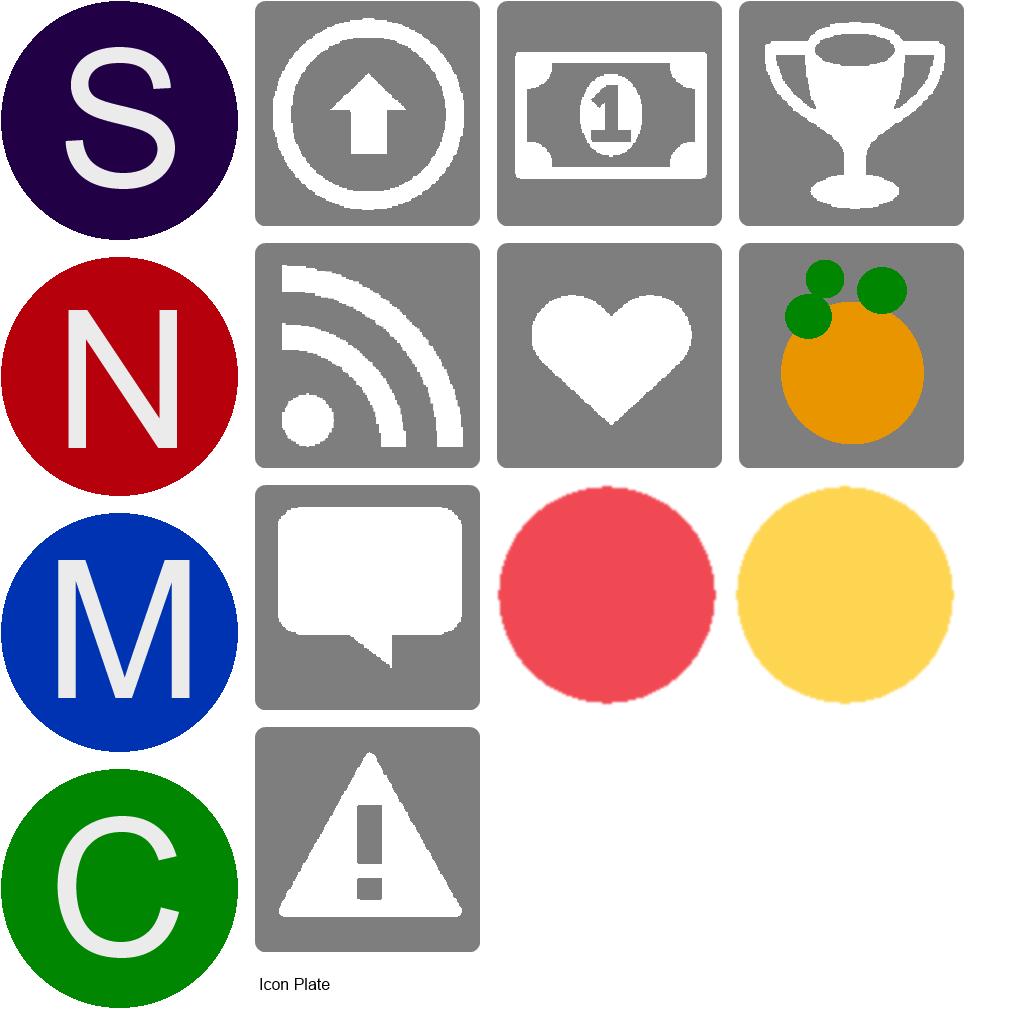
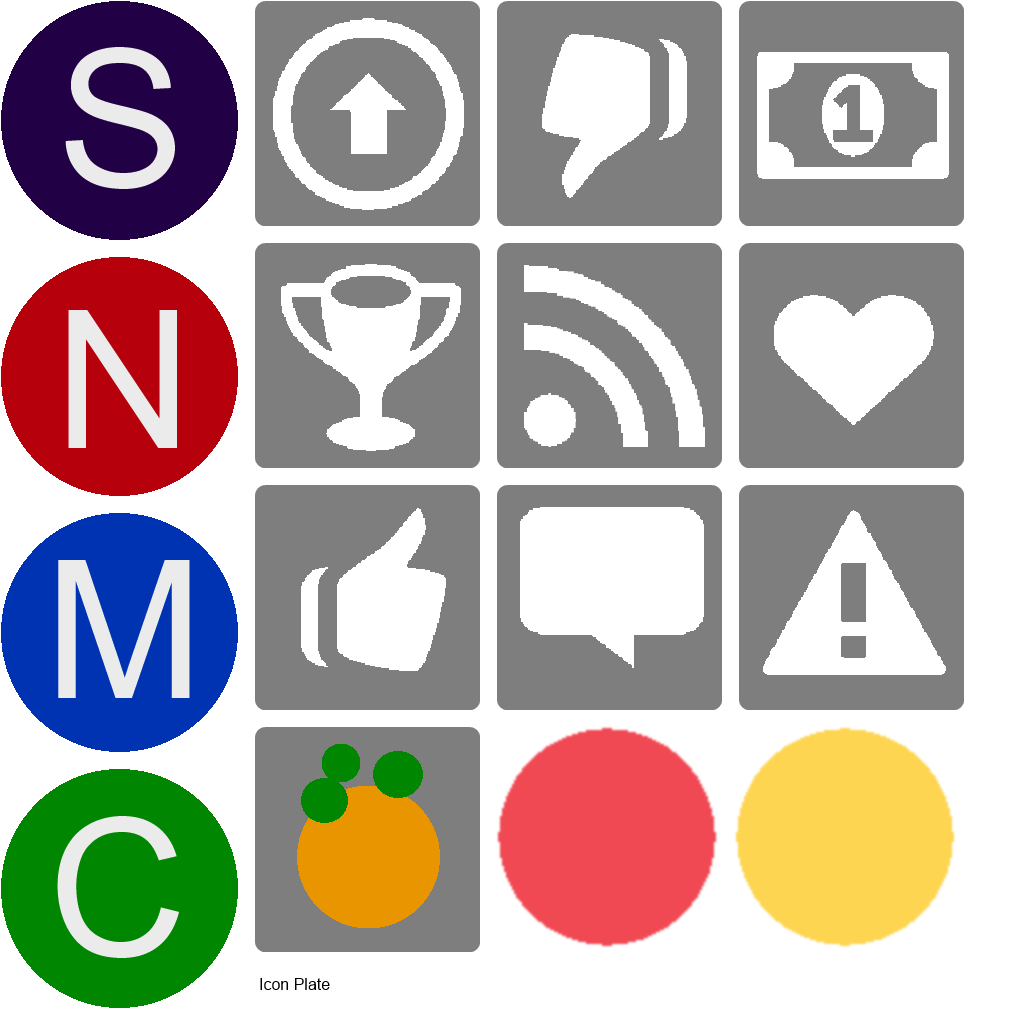
environment modifiers wip

diff --git a/resin/icon/icon.html b/resin/icon/icon.html
@@ -23,5 +23,9 @@
 <span style="font-size: 108pt" class="entypo-up-circled"></span>
  <!-- health -->
 <span style="font-size: 108pt" class="entypo-heart"></span>
+  <!-- happy -->
+  <span style="font-size: 108pt" class="entypo-thumbs-up"></span>
+  <!-- sad -->
+  <span style="font-size: 108pt" class="entypo-thumbs-down"></span>
 </body>
 </html>

diff --git a/game/aicomponent.cpp b/game/aicomponent.cpp
@@ -116,6 +116,7 @@ void AIComponent::Serialize( XStream* xs )
 	XARC_SER( xs, visitorIndex );
 	XARC_SER( xs, rampageTarget );
 	XARC_SER( xs, destinationBlocked );
+	XARC_SER( xs, lastGrid );
 	feTicker.Serialize( xs, "feTicker" );
 	needsTicker.Serialize( xs, "needsTicker" );
 	needs.Serialize( xs );
@@ -2273,6 +2274,33 @@ void AIComponent::DoMoraleZero( const ComponentSet& thisComp )
 }
 
 
+
+void AIComponent::EnterNewGrid( const ComponentSet& thisComp )
+{
+	if ( aiMode == NORMAL_MODE ) {
+		if ( thisComp.item->flags & GameItem::HAS_NEEDS ) {
+			Vector2F center = ToWorld2F( thisComp.spatial->GetPosition2DI() );	// center of the grid.
+			CChitArray arr;
+			const ChitContext* context = this->GetChitContext();
+			LumosChitBag* chitBag = this->GetLumosChitBag();
+
+			// For now, just tombstones.
+			IString names[1] = {
+				IStringConst::tombstone
+			};
+			ItemNameFilter filter( names, 3 );
+			chitBag->QuerySpatialHash( &arr, center, 1.1f, parentChit, &filter );
+			for( int i=0; i<arr.Size(); ++i ) {
+				Chit* chit = arr[i];
+				GameItem* item = chit->GetItem();
+				GLASSERT( item );
+
+			}
+		}
+	}
+}
+
+
 int AIComponent::DoTick( U32 deltaTime )
 {
 	PROFILE_FUNC();
@@ -2434,6 +2462,12 @@ int AIComponent::DoTick( U32 deltaTime )
 			currentAction = 0;
 			break;
 	}
+
+	if ( lastGrid != thisComp.spatial->GetPosition2DI() ) {
+		lastGrid = thisComp.spatial->GetPosition2DI();
+		EnterNewGrid( thisComp );
+	}
+
 	if ( debugFlag && (currentAction != oldAction) ) {
 		GLOUTPUT(( "ID=%d mode=%s action=%s\n", thisComp.chit->ID(), MODE_NAMES[aiMode], ACTION_NAMES[currentAction] ));
 	}

diff --git a/game/aicomponent.h b/game/aicomponent.h
@@ -206,6 +206,7 @@ private:
 	ai::TaskList		taskList;
 	CTicker				needsTicker;
 	ai::Needs			needs;
+	grinliz::Vector2I	lastGrid;	// the environment affects morale and needs - but only check on new grids.
 
 	static const char*	MODE_NAMES[NUM_MODES];
 	static const char*	ACTION_NAMES[NUM_ACTIONS];
@@ -215,6 +216,7 @@ private:
 	void DoMove( const ComponentSet& thisComp );
 	bool DoStand( const ComponentSet& thisComp, U32 since );	// return true if doing something
 	bool SectorHerd( const ComponentSet& thisComp );
+	void EnterNewGrid( const ComponentSet& thisComp );
 
 	grinliz::CDynArray< Chit* > chitArr;	// temporary, local
 	grinliz::CArray<int, MAX_TRACK> friendList;

diff --git a/game/healthcomponent.cpp b/game/healthcomponent.cpp
@@ -104,6 +104,9 @@ void HealthComponent::DeltaHealth()
 						float r = parentChit->GetSpatialComponent()->GetYRotation();
 						pos.y = 0;
 						chit->GetSpatialComponent()->SetPosYRot( pos, r );
+
+						GameItem* item = chit->GetItem();
+						item->keyValues.Set( 
 					}
 				}
 			}

diff --git a/xegame/istringconst.h b/xegame/istringconst.h
@@ -46,6 +46,7 @@ public:
 	static grinliz::IString crystal_blue;
 	static grinliz::IString crystal_violet;
 	static grinliz::IString fruit;
+	static grinliz::IString tombstone;
 	
 	static grinliz::IString pave;
 	static grinliz::IString ice;
